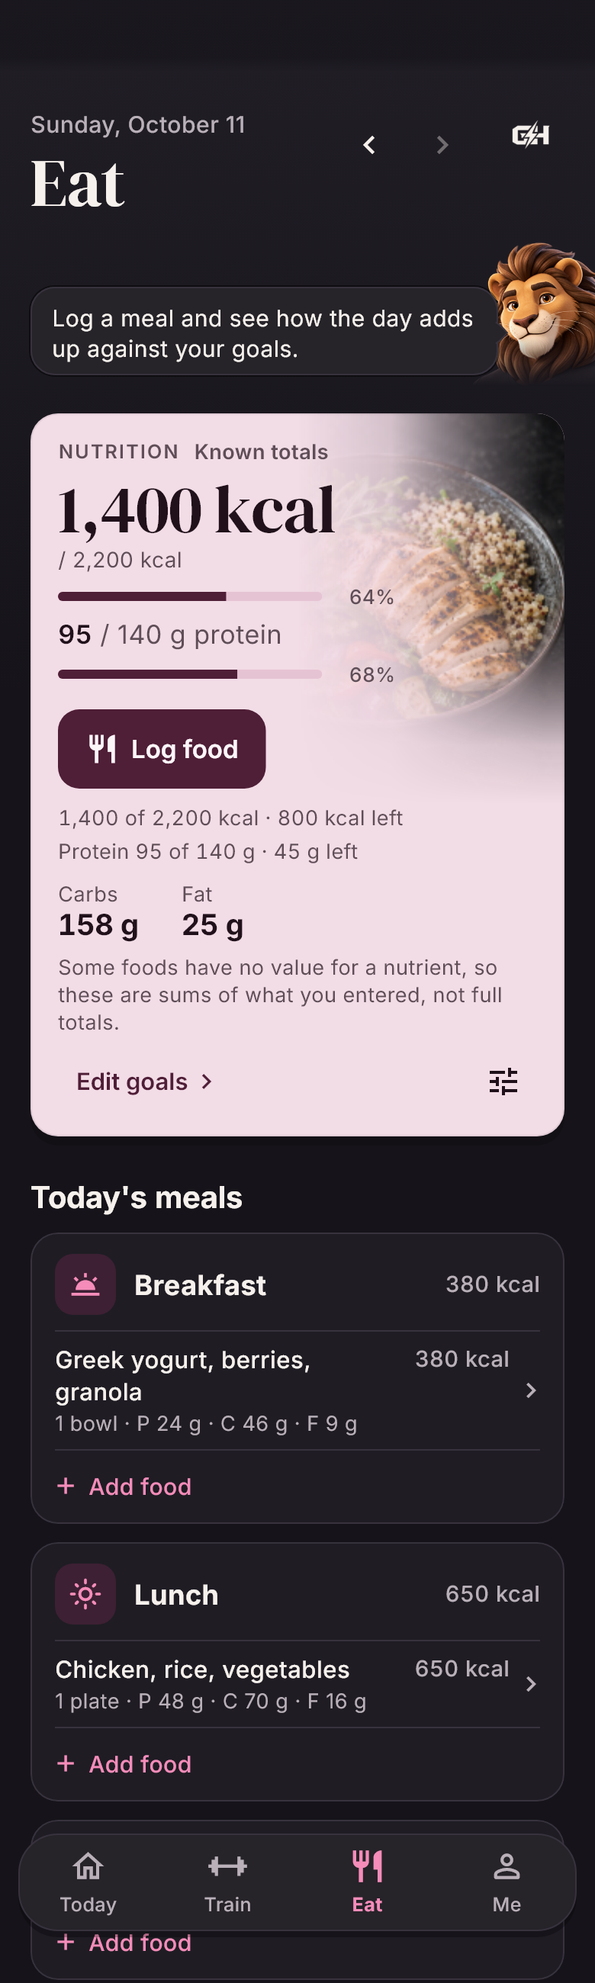
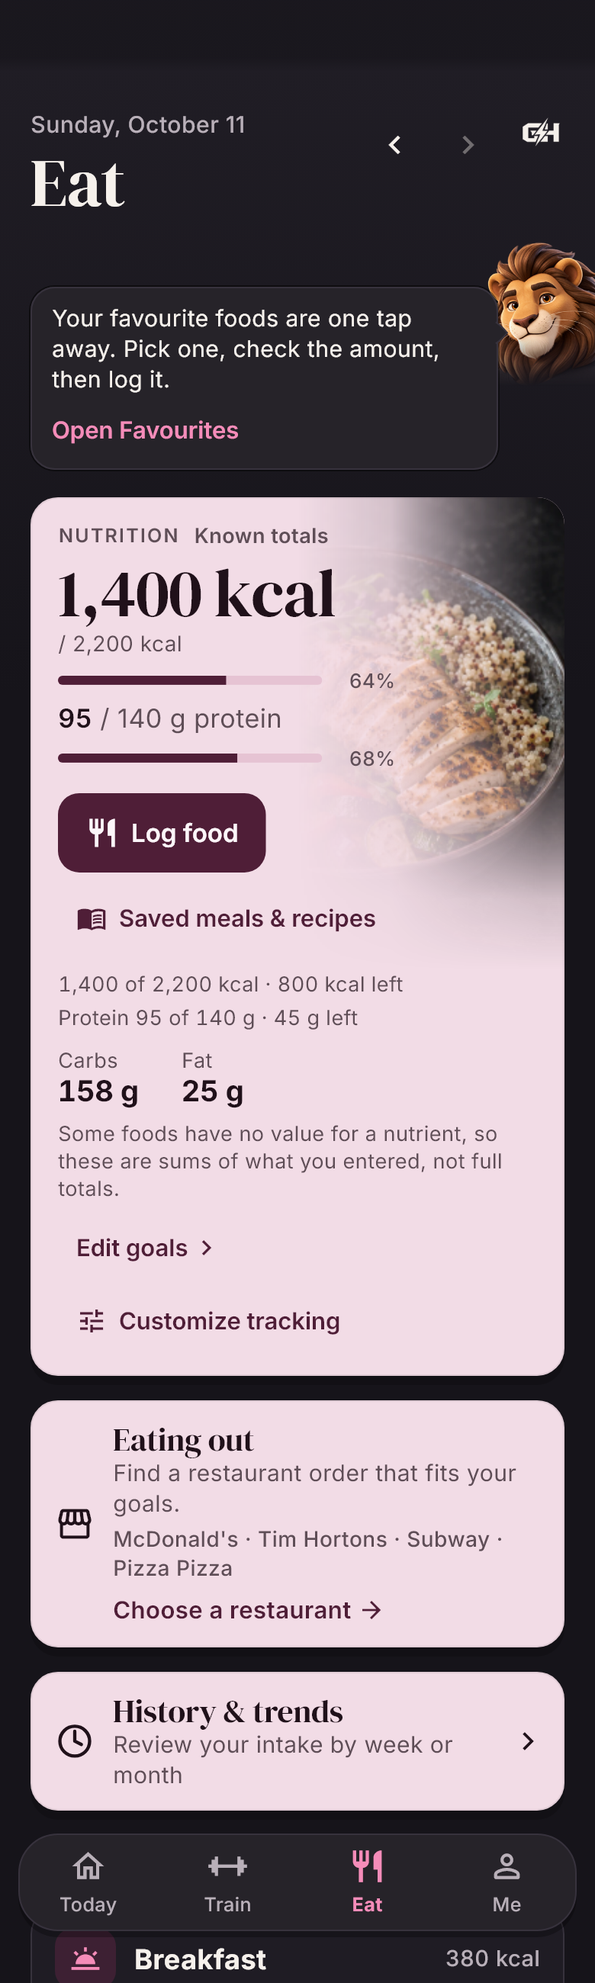
Eating out discovery: a dedicated Eat panel and a one-time coach introduction
The small Eating out button in the nutrition summary becomes a full-width
panel between the summary and History & trends, naming the catalog's own
chains, with Choose a restaurant. Leon/Leona introduce it once (eat.out,
last in the Eat hint chain) with Find an order. Both open the existing
Eating out flow for the day shown; nothing is logged or asked. en/fr/ar.

diff --git a/app/test/eating_out_ui_test.dart b/app/test/eating_out_ui_test.dart
@@ -21,6 +21,7 @@ import 'package:gohard_rebuild/features/nutrition/eat_screen.dart';
 import 'package:gohard_rebuild/features/nutrition/eating_out.dart';
 import 'package:gohard_rebuild/features/nutrition/eating_out_screen.dart';
 import 'package:gohard_rebuild/features/nutrition/food_item.dart';
+import 'package:gohard_rebuild/features/nutrition/nutrition_surface.dart' show NutritionSurface;
 import 'package:gohard_rebuild/features/nutrition/restaurants.dart';
 import 'package:gohard_rebuild/features/nutrition/saved_meals.dart';
 import 'package:gohard_rebuild/data/sync.dart' show Receipt;
@@ -87,11 +88,13 @@ Json answer(Json r, Json intent) => {
 
 const lunch = {'maxCalories': 600, 'minProtein': 25, 'keep': [{'itemId': rings, 'quantity': 1}], 'priority': 'protein'};
 
-Future<(List<Override>, FoodFakes, MemoryEatOut, ScriptedEatingOut)> _fixture(WidgetTester tester, {EatOutDraft draft = const EatOutDraft(), AppearanceStore? appearance}) async {
+Future<(List<Override>, FoodFakes, MemoryEatOut, ScriptedEatingOut)> _fixture(WidgetTester tester,
+    {EatOutDraft draft = const EatOutDraft(), AppearanceStore? appearance, List<Json> food = const [], CoachPrefs? coach}) async {
   final fakes = FoodFakes(), store = MemoryEatOut(draft), ai = ScriptedEatingOut();
   return (
     [
-      ...(await tester.runAsync(() => overridesFor(day: day, appearance: appearance)))!,
+      if (coach != null) coachPrefsStoreProvider.overrideWithValue(CoachPrefsStore(MemorySecretStore())..value = coach),
+      ...(await tester.runAsync(() => overridesFor(day: day, appearance: appearance, food: food)))!,
       ...fakes.overrides,
       restaurantCatalogProvider.overrideWith((ref) async => catalog),
       eatOutStoreProvider.overrideWithValue(store),
@@ -173,6 +176,72 @@ void main() {
     expect(fakes.journal.meals, isEmpty);
     expect(fakes.journal.saved, isEmpty);
     expect(store.draft.chainId, 'subway-ca');
+  });
+
+  testWidgets('Eating out is its own panel under the summary, before History; it names the catalog\'s chains and opens Eating out for the day picked', (tester) async {
+    final (overrides, fakes, _, ai) = await _fixture(tester);
+    await pumpApp(tester, overrides, size: const Size(390, 1600));
+    await tester.tap(find.byKey(const Key('nav-eat')));
+    await tester.pumpAndSettle();
+    final eat = find.byType(EatScreen);
+    await _tap(tester, find.descendant(of: eat, matching: find.byTooltip('Previous day')));
+    final panel = find.descendant(of: eat, matching: find.byKey(const Key('eat-eating-out')));
+    expect(panel, findsOneWidget);
+    expect(find.descendant(of: find.byType(NutritionSurface), matching: find.byKey(const Key('eat-eating-out'))), findsNothing, reason: 'the small summary entry is gone');
+    expect(find.descendant(of: find.byType(NutritionSurface), matching: find.byKey(const Key('eat-saved-meals'))), findsOneWidget, reason: 'Saved meals keeps its entry');
+    final y = tester.getTopLeft(panel).dy;
+    expect(tester.getBottomLeft(find.byType(NutritionSurface)).dy < y && y < tester.getTopLeft(find.descendant(of: eat, matching: find.byKey(const Key('eat-history')))).dy, isTrue);
+    for (final words in ['Find a restaurant order that fits your goals.', 'Choose a restaurant ']) {
+      expect(find.descendant(of: panel, matching: find.textContaining(words, findRichText: true)), findsOneWidget);
+    }
+    final line = tester.widget<Text>(find.descendant(of: panel, matching: find.textContaining('Pizza'))).data!;
+    expect(line.replaceAll(String.fromCharCode(0xa0), ' '), "McDonald's · Tim Hortons · Subway · Pizza Pizza");
+    // One action for screen readers: the whole panel, read once.
+    expect(find.bySemanticsLabel(RegExp(r"^Eating out\. Find a restaurant order .*Pizza Pizza\. Choose a restaurant$")), findsOneWidget);
+
+    await _tap(tester, panel);
+    expect(tester.widget<EatingOutScreen>(find.byType(EatingOutScreen)).dayKey, '2026-10-10', reason: 'the day picked on Eat, not today');
+    expect(ai.requests, isEmpty);
+    expect(fakes.journal.meals, isEmpty);
+    expect(fakes.journal.saved, isEmpty);
+  });
+
+  testWidgets('the coach introduces Eating out once, only on Eat in view, and Find an order opens it for the day; hints or coach off: no introduction, the panel stays', (tester) async {
+    const earlier = {'one|eat.saved.new', 'one|eat.meals'}; // the hints before it have had their turn
+    final food = [foodEntry('f1', day, 'Breakfast', 'Porridge', '1 bowl', calories: 300)];
+    final (overrides, fakes, _, ai) = await _fixture(tester, food: food, coach: const CoachPrefs(dismissed: earlier));
+    final c = await pumpApp(tester, overrides, size: const Size(390, 1600));
+    expect(c.read(coachPrefsProvider).seen('one', 'eat.out'), isFalse, reason: 'Eat is built behind Today: not used up unseen');
+    tester.view.viewInsets = const FakeViewPadding(bottom: 300);
+    await tester.tap(find.byKey(const Key('nav-eat')));
+    await tester.pumpAndSettle();
+    expect(c.read(coachPrefsProvider).seen('one', 'eat.out'), isFalse, reason: 'not while the keyboard is up');
+    tester.view.resetViewInsets();
+    // It waits for the next visit rather than popping in as the keyboard closes.
+    for (final tab in ['nav-today', 'nav-eat']) {
+      await tester.tap(find.byKey(Key(tab)));
+      await tester.pumpAndSettle();
+    }
+    final coach = find.byKey(const Key('eat-coach'));
+    expect(find.descendant(of: coach, matching: find.textContaining('Eating out today?', findRichText: true)), findsOneWidget);
+    expect(c.read(coachPrefsProvider).seen('one', 'eat.out'), isTrue);
+    await _tap(tester, find.byKey(const Key('eat-coach-eating-out')));
+    final screen = tester.widget<EatingOutScreen>(find.byType(EatingOutScreen));
+    expect(screen.dayKey, day);
+    expect(ai.requests, isEmpty, reason: 'the introduction and its shortcut ask nothing');
+    expect(fakes.journal.saved, isEmpty);
+    expect(fakes.journal.meals, isEmpty);
+
+    for (final prefs in const [CoachPrefs(dismissed: earlier, hintsEnabled: false), CoachPrefs(dismissed: earlier, onTabs: false)]) {
+      await tester.pumpWidget(const SizedBox());
+      final (overrides, _, _, _) = await _fixture(tester, food: food, coach: prefs);
+      final c = await pumpApp(tester, overrides, size: const Size(390, 1600));
+      await tester.tap(find.byKey(const Key('nav-eat')));
+      await tester.pumpAndSettle();
+      expect(find.textContaining('Eating out today?', findRichText: true), findsNothing);
+      expect(c.read(coachPrefsProvider).seen('one', 'eat.out'), isFalse);
+      expect(find.descendant(of: find.byType(EatScreen), matching: find.byKey(const Key('eat-eating-out'))), findsOneWidget);
+    }
   });
 
   testWidgets('Send asks once; the targets are shown and editable; Undo; a suggestion is reviewed and logged once, one entry per item', (tester) async {

diff --git a/app/lib/features/nutrition/eat_screen.dart b/app/lib/features/nutrition/eat_screen.dart
@@ -21,7 +21,9 @@ import 'nutrition_history.dart';
 import 'nutrient_coverage.dart';
 import 'nutrition_surface.dart';
 import 'nutrition_tools.dart';
+import 'eating_out.dart' show restaurantCatalogProvider;
 import 'eating_out_screen.dart';
+import 'restaurants.dart' show RestaurantChain;
 import 'saved_meals_screens.dart';
 import 'water.dart';
 
@@ -61,6 +63,9 @@ class _EatScreenState extends ConsumerState<EatScreen> {
   /// The meal a saved-food shortcut starts on, from the time of day; it can be changed in Add food before choosing.
   static String _mealNow(DateTime t) => t.hour < 11 ? 'Breakfast' : t.hour < 16 ? 'Lunch' : t.hour < 21 ? 'Dinner' : 'Snack';
 
+  /// Eating out for [day] and the meal of the time of day: the panel and the coach's shortcut open the same thing.
+  Future<void> _openEatingOut(String day) => openEatingOut(context, dayKey: day, meal: _mealNow(DateTime.now()));
+
   /// Add food opened on Favourites or My foods, for [day]. A shortcut, never a log: the amount is still reviewed and confirmed.
   static Future<void> openSavedFoods(BuildContext context, {required String day, required FoodScope scope}) =>
       push(context, LogFoodScreen(dayKey: day, meal: _mealNow(DateTime.now()), scope: scope));
@@ -76,7 +81,8 @@ class _EatScreenState extends ConsumerState<EatScreen> {
     if (owner == null || !ref.read(savedFoodsProvider).hasValue) return null;
     final has = saved.any((s) => s.isFavourite || s.isMine);
     // Tabs stay built off screen: a hint is chosen (and used up) only while Eat is the tab in view and its page current.
-    final inView = ref.watch(shellProvider.select((s) => s.tab == 2)) && (ModalRoute.isCurrentOf(context) ?? true);
+    // Nor while the keyboard is up (the view's own inset: the Scaffold takes it out of the page's MediaQuery).
+    final inView = ref.watch(shellProvider.select((s) => s.tab == 2)) && (ModalRoute.isCurrentOf(context) ?? true) && View.of(context).viewInsets.bottom == 0;
     // A first visit is about logging a meal at all; saving one for next time is worth saying once food is logged.
     if (_hint == null && inView && (has || logged)) {
       final id = has ? 'eat.saved.shortcut' : 'eat.saved.new';
@@ -99,7 +105,17 @@ class _EatScreenState extends ConsumerState<EatScreen> {
         WidgetsBinding.instance.addPostFrameCallback((_) => ref.read(coachPrefsProvider.notifier).markSeen(owner, id));
       }
     }
+    // Eating out, once, after the hints above have had their turn (a first visit stays about logging a meal). The
+    // panel under the summary is always there; this only points to it.
+    if (_hint == '' && inView) {
+      const id = 'eat.out';
+      if (ref.read(coachPrefsProvider).mayIntroduce(owner, id)) {
+        _hint = id;
+        WidgetsBinding.instance.addPostFrameCallback((_) => ref.read(coachPrefsProvider.notifier).markSeen(owner, id));
+      }
+    }
     final l = context.l10n;
+    if (_hint == 'eat.out') return CoachSay(l.eatHintEatingOut, guide: (label: l.eatHintEatingOutAction, key: const Key('eat-coach-eating-out'), onPressed: () => _openEatingOut(day)));
     if (_hint == 'eat.history') return CoachSay(l.eatHintHistory);
     if (_hint == 'eat.meals') {
       return CoachSay(l.eatHintMeals,
@@ -218,12 +234,22 @@ class _EatScreenState extends ConsumerState<EatScreen> {
                     PrimaryButton(l.foodLogButton, key: const Key('log-food'), icon: Icons.restaurant, expand: false, onPressed: () => openFoodForm(context, dayKey: day)),
                     TextButton.icon(key: const Key('eat-saved-meals'), icon: const Icon(Icons.menu_book_outlined, size: 20), label: Text(l.mealsLibraryTitle),
                         onPressed: () => openMealsLibrary(context, dayKey: day, meal: _mealNow(DateTime.now()))),
-                    // A restaurant order from verified menus, for the same day and the meal of the time of day.
-                    TextButton.icon(key: const Key('eat-eating-out'), icon: const Icon(Icons.storefront_outlined, size: 20),
-                        label: Text(l.eatOutTitle, semanticsLabel: l.eatOutEntrySaid),
-                        onPressed: () => openEatingOut(context, dayKey: day, meal: _mealNow(DateTime.now()))),
                   ]),
                 ),
+                const SizedBox(height: 16),
+                // Eating out, always here (coach or not): a restaurant order from verified menus, for the same day and the
+                // meal of the time of day. The chains named are the catalog's own, so the line never claims more.
+                () {
+                  final names = [for (final ch in ref.watch(restaurantCatalogProvider).value?.chains ?? const <RestaurantChain>[]) ch.name];
+                  return PanelLink(
+                    key: const Key('eat-eating-out'), icon: const Icon(Icons.storefront_outlined), title: l.eatOutTitle, subtitle: l.eatOutPanelBody,
+                    // Each name stays whole on one line; the list wraps between names.
+                    detail: names.isEmpty ? null : names.map((n) => n.replaceAll(' ', String.fromCharCode(0xa0))).join(' · '),
+                    action: l.eatOutPanelAction,
+                    semanticLabel: [l.eatOutTitle, l.eatOutPanelBody, if (names.isNotEmpty) names.join(', '), l.eatOutPanelAction].join('. '),
+                    onTap: () => _openEatingOut(day),
+                  );
+                }(),
                 const SizedBox(height: 16),
                 // The one way to History & trends (charts by week and month, the calendar, the days with entries): under
                 // the day's summary, secondary to Log food. It opens the history on the day shown and changes nothing.

diff --git a/app/lib/core/widgets.dart b/app/lib/core/widgets.dart
@@ -1116,11 +1116,13 @@ class BrandBadge extends StatelessWidget {
 
 /// A substantial way to another page, in the pale panel: an icon, a title in the serif, a line saying what is there,
 /// and a chevron that points the reading way. The whole panel is one target, read out as [semanticLabel]; its words
-/// wrap with large text and long translations.
+/// wrap with large text and long translations. An optional [detail] is a quieter line under the subtitle, and an
+/// optional [action] names where the panel goes, in the accent with an arrow, in place of the chevron.
 class PanelLink extends StatelessWidget {
-  const PanelLink({super.key, required this.icon, required this.title, required this.subtitle, required this.semanticLabel, required this.onTap});
+  const PanelLink({super.key, required this.icon, required this.title, required this.subtitle, required this.semanticLabel, required this.onTap, this.detail, this.action});
   final Widget icon;
   final String title, subtitle, semanticLabel;
+  final String? detail, action;
   final VoidCallback onTap;
 
   @override
@@ -1141,9 +1143,16 @@ class PanelLink extends StatelessWidget {
                       child: Column(crossAxisAlignment: CrossAxisAlignment.start, children: [
                         Text(title, style: context.pageTitleStyle(21)),
                         Text(subtitle, style: context.sansStyle(15, color: context.c.secondary)),
+                        if (detail != null) ...[const SizedBox(height: 4), Text(detail!, style: context.sansStyle(14, color: context.c.secondary, weight: FontWeight.w500))],
+                        if (action != null) ...[
+                          const SizedBox(height: 8),
+                          // The arrow mirrors in a right-to-left language.
+                          Text.rich(TextSpan(text: '${action!} ', children: [WidgetSpan(alignment: PlaceholderAlignment.middle, child: Icon(Icons.arrow_forward, size: 18, color: context.c.accent))]),
+                              style: context.sansStyle(15.5, color: context.c.accent, weight: FontWeight.w600)),
+                        ],
                       ]),
                     ),
-                    Icon(Icons.chevron_right, color: context.c.text),
+                    if (action == null) Icon(Icons.chevron_right, color: context.c.text),
                   ]),
                 ),
               ),

diff --git a/app/integration_test/journey_eatout_entry_test.dart b/app/integration_test/journey_eatout_entry_test.dart
@@ -1,0 +1,44 @@
+import 'package:flutter/material.dart';
+import 'package:flutter_test/flutter_test.dart';
+import 'package:gohard_rebuild/features/nutrition/eat_screen.dart';
+import 'package:gohard_rebuild/features/nutrition/eating_out_screen.dart';
+import 'package:integration_test/integration_test.dart';
+
+import 'support.dart';
+
+/// The Eating out panel on a real install (docs/EATING_OUT.md › Finding it): on Eat, under the summary; on an earlier
+/// day it opens Eating out for that day; back leaves Eat as it was. Nothing is logged or asked. Not in the default run:
+/// `scripts\test-android.ps1 -Only journey_eatout_entry_test -ApiBase http://10.0.2.2:PORT`.
+void main() {
+  final binding = IntegrationTestWidgetsFlutterBinding.ensureInitialized();
+
+  testWidgets('eating out entry', (tester) async {
+    final j = Journey(tester, binding);
+    await j.start('Eatout Entry');
+    final eat = find.byType(EatScreen);
+    final panel = find.descendant(of: eat, matching: find.byKey(const Key('eat-eating-out')));
+
+    await j.tapKey('nav-eat');
+    await j.reveal(panel);
+    await j.waitFor(find.descendant(of: panel, matching: find.textContaining('Pizza')), what: 'the chains on the panel');
+    await j.shot('eod-01-panel');
+
+    await j.tap(find.descendant(of: eat, matching: find.byTooltip('Previous day')));
+    final t = DateTime.now().subtract(const Duration(days: 1));
+    final yesterday = '${t.year}-${'${t.month}'.padLeft(2, '0')}-${'${t.day}'.padLeft(2, '0')}';
+    await j.reveal(panel);
+    await j.tap(panel);
+    await j.waitFor(find.byKey(const Key('eatout-chain-subway-ca')), what: 'the chains');
+    expect(tester.widget<EatingOutScreen>(find.byType(EatingOutScreen)).dayKey, yesterday, reason: 'the day picked on Eat');
+    await j.shot('eod-02-chains');
+
+    Navigator.of(tester.element(find.byType(EatingOutScreen))).pop();
+    await j.settle(8);
+    await j.reveal(panel);
+    expect(panel, findsOneWidget);
+    // Back to today sits in the header, out of the lazy list while the panel is in view.
+    final back = find.descendant(of: eat, matching: find.byKey(const Key('eat-back-to-today')));
+    await j.reveal(back);
+    expect(back, findsOneWidget, reason: 'Eat still shows the earlier day');
+  });
+}

diff --git a/app/test/render_test.dart b/app/test/render_test.dart
@@ -26,6 +26,8 @@ import 'package:gohard_rebuild/data/models.dart';
 import 'package:gohard_rebuild/data/session.dart';
 import 'package:gohard_rebuild/features/coach/coach_avatar.dart';
 import 'package:gohard_rebuild/features/coach/coach_bubble.dart';
+import 'package:gohard_rebuild/features/nutrition/eating_out.dart' show restaurantCatalogProvider;
+import 'package:gohard_rebuild/features/nutrition/restaurants.dart' show RestaurantCatalog;
 import 'package:gohard_rebuild/features/weather/weather.dart';
 
 import 'food_fakes.dart';
@@ -527,7 +529,9 @@ void main() {
   }
   for (final MapEntry(key: name, value: (fixture, screen, size, scale)) in states.entries) {
     testWidgets('state: $name', (tester) async {
-      await pumpApp(tester, await fixture(tester), size: size, textScale: scale, insets: phoneInsets, settle: false);
+      // The bundled restaurant catalog read from the file, so Eat's Eating out panel names its chains in every render.
+      final catalog = restaurantCatalogProvider.overrideWith((ref) async => RestaurantCatalog.parse(File('assets/data/restaurant-catalog.json').readAsStringSync())!);
+      await pumpApp(tester, [...await fixture(tester), catalog], size: size, textScale: scale, insets: phoneInsets, settle: false);
       await _settle(tester);
       await _open(tester, screen);
       await _save(tester, await _capture(tester), 'state-$name');

diff --git a/app/lib/l10n/app_localizations.dart b/app/lib/l10n/app_localizations.dart
@@ -15750,11 +15750,29 @@ abstract class AppLocalizations {
   /// **'Verified Canadian menus: choose or improve an order'**
   String get eatOutEntrySubtitle;
 
-  /// Screen reader label for the Eat entry.
+  /// Eat › Eating out panel: what it does.
   ///
   /// In en, this message translates to:
-  /// **'Eating out: choose or improve a restaurant order'**
-  String get eatOutEntrySaid;
+  /// **'Find a restaurant order that fits your goals.'**
+  String get eatOutPanelBody;
+
+  /// Eat › Eating out panel: its action (an arrow follows).
+  ///
+  /// In en, this message translates to:
+  /// **'Choose a restaurant'**
+  String get eatOutPanelAction;
+
+  /// One-time Eat coach introduction of Eating out.
+  ///
+  /// In en, this message translates to:
+  /// **'Eating out today? I can help you choose an order—or improve the one you want.'**
+  String get eatHintEatingOut;
+
+  /// Coach bubble button: opens Eating out.
+  ///
+  /// In en, this message translates to:
+  /// **'Find an order'**
+  String get eatHintEatingOutAction;
 
   /// Subtitle: the meal and day an order would be logged to.
   ///

diff --git a/app/lib/l10n/app_localizations_ar.dart b/app/lib/l10n/app_localizations_ar.dart
@@ -11106,8 +11106,17 @@ class AppLocalizationsAr extends AppLocalizations {
   String get eatOutEntrySubtitle => 'قوائم كندية موثّقة: اختر طلبًا أو حسّنه';
 
   @override
-  String get eatOutEntrySaid =>
-      'تناول الطعام في الخارج: اختر طلب مطعم أو حسّنه';
+  String get eatOutPanelBody => 'اعثر على طلب من مطعم يناسب أهدافك.';
+
+  @override
+  String get eatOutPanelAction => 'اختر مطعمًا';
+
+  @override
+  String get eatHintEatingOut =>
+      'ستأكل في الخارج اليوم؟ يمكنني مساعدتك في اختيار طلب أو تحسين الطلب الذي تريده.';
+
+  @override
+  String get eatHintEatingOutAction => 'اعثر على طلب';
 
   @override
   String eatOutForContext(String meal, String date) {

diff --git a/app/test/water_ui_test.dart b/app/test/water_ui_test.dart
@@ -197,6 +197,8 @@ void main() {
     await tester.pumpAndSettle();
     expect(find.descendant(of: find.byKey(const Key('eat-water')), matching: find.text('750 / 2,000 mL')), findsOneWidget, reason: 'Eat shows the same day\'s water');
     await tester.pump(const Duration(seconds: 3));
+    // Customize left Eat scrolled down; the coach is in its header, back at the top of the lazy list.
+    await tester.scrollUntilVisible(find.byKey(const Key('eat-coach')), -300, scrollable: find.ancestor(of: find.byKey(const Key('eat-water')), matching: find.byType(Scrollable)).first);
     expect(find.descendant(of: find.byKey(const Key('eat-coach')), matching: find.textContaining('water', findRichText: true)), findsOneWidget, reason: 'the coach mentions water once it is shown');
     expect(tester.takeException(), isNull);
   });

diff --git a/app/lib/l10n/app_localizations_fr.dart b/app/lib/l10n/app_localizations_fr.dart
@@ -10806,8 +10806,18 @@ class AppLocalizationsFr extends AppLocalizations {
       'Menus canadiens vérifiés : choisir ou améliorer une commande';
 
   @override
-  String get eatOutEntrySaid =>
-      'Au restaurant : choisir ou améliorer une commande';
+  String get eatOutPanelBody =>
+      'Trouve une commande au restaurant qui respecte tes objectifs.';
+
+  @override
+  String get eatOutPanelAction => 'Choisir un restaurant';
+
+  @override
+  String get eatHintEatingOut =>
+      'Tu manges au restaurant aujourd\'hui? Je peux t\'aider à choisir une commande ou à améliorer celle que tu veux.';
+
+  @override
+  String get eatHintEatingOutAction => 'Trouver une commande';
 
   @override
   String eatOutForContext(String meal, String date) {

diff --git a/app/lib/l10n/app_localizations_en.dart b/app/lib/l10n/app_localizations_en.dart
@@ -10618,8 +10618,17 @@ class AppLocalizationsEn extends AppLocalizations {
       'Verified Canadian menus: choose or improve an order';
 
   @override
-  String get eatOutEntrySaid =>
-      'Eating out: choose or improve a restaurant order';
+  String get eatOutPanelBody => 'Find a restaurant order that fits your goals.';
+
+  @override
+  String get eatOutPanelAction => 'Choose a restaurant';
+
+  @override
+  String get eatHintEatingOut =>
+      'Eating out today? I can help you choose an order—or improve the one you want.';
+
+  @override
+  String get eatHintEatingOutAction => 'Find an order';
 
   @override
   String eatOutForContext(String meal, String date) {

diff --git a/app/test/nutrition_trends_ui_test.dart b/app/test/nutrition_trends_ui_test.dart
@@ -34,6 +34,9 @@ String _text(WidgetTester tester, String key) => tester.widget<Text>(find.byKey(
 Future<void> _openTrends(WidgetTester tester) async {
   await tester.tap(find.byKey(const Key('nav-eat')));
   await tester.pumpAndSettle();
+  // With large text on a narrow phone it is below the fold, under Eating out.
+  await tester.ensureVisible(find.byKey(const Key('eat-history')));
+  await tester.pumpAndSettle();
   await tester.tap(find.byKey(const Key('eat-history')));
   await tester.pumpAndSettle();
 }

diff --git a/docs/TASK_MATRIX.md b/docs/TASK_MATRIX.md
@@ -88,3 +88,4 @@ Historical results from the original project count for nothing here.
 | S2 Required email verification for new accounts, 14-day legacy grace; Eat History & trends panel; Train › Workouts as the one home for past sessions (added 23 Oct 2026, GoHard_Verification_Eat_Train_Claude_Prompt) | docs/AUTHENTICATION_EMAIL.md › 10, docs/DESIGN.md, docs/FOOD_DATA.md, docs/PROGRESS.md; API `AuthService.cs` (`AccountAccess`, `VerificationGraceDays`), `Program.cs` (eligibility claim, default policy, `VerificationRequiredHandler`), `Endpoints.cs` (identity routes, register needs a sender, contract 2), migration `AddVerificationGrace`; app `data/sync.dart` (access record, paused outbox), `models.dart`, `providers.dart`, `app.dart` (gate), `account_security.dart` (gate mode), `account_repository.dart`, `today_screen.dart`, `me_screen.dart`, `setup_screen.dart`, `eat_screen.dart`, `train_screen.dart`, `progress_view.dart`, `core/widgets.dart` (`PanelLink`, `AppPage.above`), `config.dart` (contract 2); `scripts/start-api.ps1` (capture mail locally) | API `VerificationPolicyTests` (4: every signed-in route walked with a waiting token, forged claim, refresh/login/password change/reset, legacy grace through the real migration), updated `AccountEmailTests`, full suite 218; app `verification_gate_test` (2), `account_security_test` (+2), `train_ui_test`, `nutrition_trends_ui_test` (+1), full suite; renders `verification_navigation_render_test`, `verification_gate_render_test` (gated, en/fr/ar, before/after); Native `journey_verify_nav_test` (one process, not default) | See ledger, 23 Oct 2026. **Not verified on a device:** a restart of a waiting account (emulator storage; covered by `verification_gate_test`), legacy grace in the app. **Pending:** hosted deploy (migration), real email, iPhone |
 | N2 Saved meals and recipes: save, edit, scale and log several foods; recipes by servings or weighed grams (added 23 Oct 2026, GoHard_Saved_Meals_Recipes_Claude_Prompt) | docs/FOOD_DATA.md › Saved meals and recipes, docs/COACH.md; app `features/nutrition/saved_meals.dart`, `saved_meals_screens.dart`, `food_repository.dart` (`logMeal`, recipe portions), `nutrient_coverage.dart` (partial sums), `eat_screen.dart`, `log_food_screen.dart` / `food_form.dart` (selection mode), `food_discovery.dart`, `data/models.dart`, `data/sync.dart`, `app/providers.dart`, l10n; API `SavedMealService`, `FoodService.CreateManyAsync`, `Endpoints.cs`, migration `AddSavedMeals`, capability `food.saved-meals` | API `SavedMealTests` (14), `VerificationPolicyTests`; app `saved_meals_test` (13), `saved_meals_ui_test` (6, renders gated), affected suites; Native `journey_meals_test` (one process, not default) | See ledger, 23 Oct 2026 (saved meals). Merged and deployed 23 Oct (`13dcc7b`, 14 migrations, `food.saved-meals` declared). **Pending:** hosted data checks (not run: need verified accounts), iPhone, restart-while-offline on a device |
 | N3 Eating out: verified Canadian chain menus, Help me choose / Improve my order, natural-language preferences (added 25 Oct 2026, GoHard_Eating_Out_Claude_Prompt) | docs/EATING_OUT.md, docs/RESTAURANT_SOURCES.md (generated), docs/COACH.md, docs/FOOD_DATA.md; catalog `scripts/build-restaurant-catalog.mjs`, `restaurant-catalog.spec.json`, `restaurant-sources/`, `pdf-text.mjs`, `coach-stub.mjs` (journey stub); API `Application/Restaurants/RestaurantService.cs`, `Data/restaurant-catalog.json`, `CoachService` (`GuardedAsync`, `CallAsync`), `CoachProvider.cs` (`ReplyFormat`), Groq/Anthropic providers, `Endpoints.cs` (capabilities `restaurants.catalog`, `restaurants.interpret`); app `features/nutrition/restaurants.dart` (catalog, orders, `OrderPlanner`), `eating_out.dart` (catalog cache, draft, client), `eating_out_screen.dart`, `food_item.dart` (`restaurant` source), `food_form.dart`, `eat_screen.dart`, `log_food_screen.dart`, `coach_bubble.dart` (`TabCoach.attentive`), `data/models.dart` (`Kinds.eatOut`), l10n | API `RestaurantTests` (5 in `CoachTests`, stubbed provider) + existing coach tests; app `eating_out_test` (17), `eating_out_ui_test` (7, stub client; renders gated en/fr/ar), affected suites; Native `journey_eatout_test` (one process, not default, stub provider) | See ledger, 25 Oct 2026 (eating out). All four chains (catalog 2026-10-25.2). Merged and deployed 26 Oct (`8458563`, Railway success, `restaurants.*` declared). **Pending:** live Groq and hosted data checks on the owner's iPhone |
+| N3a Eating out discoverability: a dedicated Eat panel under the summary and a once-per-account coach introduction (added 27 Oct 2026) | docs/EATING_OUT.md › Finding it, docs/COACH.md › Eating out; app `eat_screen.dart` (panel, `eat.out` hint), `core/widgets.dart` (`PanelLink` detail/action), l10n en/fr/ar | `eating_out_ui_test` (+2: panel placement/labels/day, introduction rules), `water_ui_test` and `nutrition_trends_ui_test` adjusted for the taller page, renders `state-full-eat-*`/`state-large-text-eat-goals-320` en/fr/ar; Native `journey_eatout_entry_test` (one process, not default) | See ledger, 27 Oct 2026 (eating out discovery). No API, catalog or sync change. Not merged |
